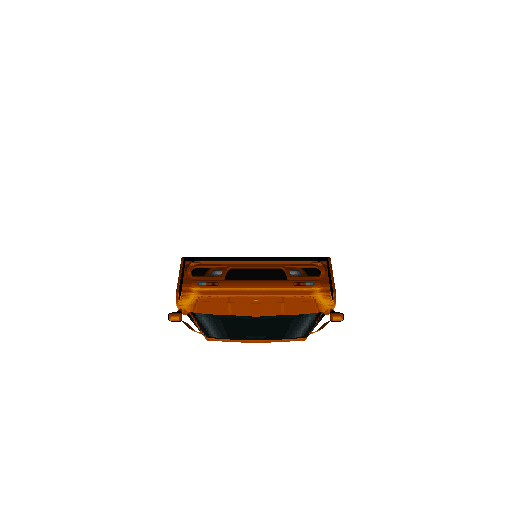
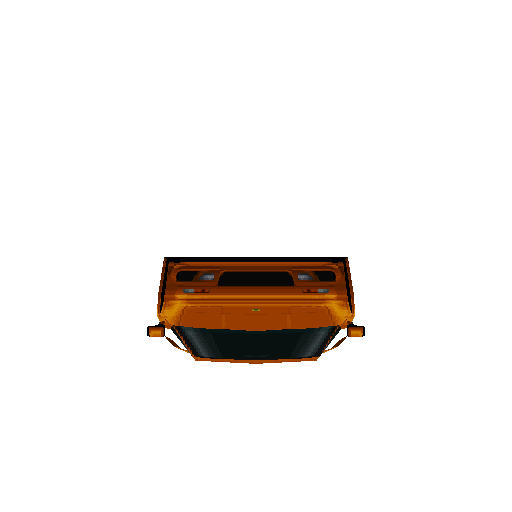
some cleanup

Changed region(s): [[0.2812, 0.5, 0.7188, 0.7188]]

diff --git a/resources/engineCode/engineImguiUtils.cc b/resources/engineCode/engineImguiUtils.cc
@@ -1352,11 +1352,11 @@ void engine::MenuOBJ () {
 		if ( ImGui::Button( "OBJ" ) ) {
 
 			// load the model
-			const mat3 baseTransform( 0.005f );
+			const mat3 baseTransform( 0.00618f );
 			mat3 transform = baseTransform;
 
 			// render one view, to start
-			cout << endl << "drawing model" << endl << endl;
+			// cout << endl << "drawing model" << endl << endl;
 			std::vector< fragment > fragments[ 3 ];
 
 			// +x view
@@ -1373,54 +1373,48 @@ void engine::MenuOBJ () {
 			transform = rotation( vec3( 1.0f, 0.0f, 0.0f ), pi / 2.0 ) * baseTransform;
 			s2.DrawModel( "testModel/iosen.OBJ", "testModel/iosen_6.png", transform, vec3( 0.0f ), fragments[ 2 ] );
 
-			cout << "model drawn" << endl;
+			// cout << "model drawn" << endl;
 			s0.Color.Save( "test.png" );
 
-			cout << "pulled " << fragments[ 0 ].size() + fragments[ 1 ].size() + fragments[ 2 ].size()
-				<< " fragments, ready to put in block" << newline;
+			// cout << "pulled " << fragments[ 0 ].size() + fragments[ 1 ].size() + fragments[ 2 ].size()
+				// << " fragments, ready to put in block" << newline;
 
 
 			// populate load block out of the three rendered views
-			std::vector<uint8_t> loaded;
+			std::vector< uint8_t > loaded;
 			loaded.resize( BLOCKDIM * BLOCKDIM * BLOCKDIM * 4 );
 
 			// fragments -> texture ( will need to figure out averaging, etc, eventually - for now, overwrite )
-			for ( auto& frag : fragments[ 0 ] ) {
-				int depthRemap = int( RemapRange( frag.depth, -1.0f, 1.0f, 0.0f, float( BLOCKDIM ) ) );
-				const int x = frag.pos.y;
-				const int y = BLOCKDIM - depthRemap;
-				const int z = frag.pos.x;
-				const int index = ( x + y * BLOCKDIM + z * BLOCKDIM * BLOCKDIM ) * 4;
-				loaded[ index + 0 ] = frag.color.r * 255;
-				loaded[ index + 1 ] = frag.color.g * 255;
-				loaded[ index + 2 ] = frag.color.b * 255;
-				loaded[ index + 3 ] = frag.color.a * 255;
+			for ( int i = 0; i < 3; i++ ) {
+				for ( auto& frag : fragments[ i ] ) {
+					int depthRemap = int( RemapRange( frag.depth, -1.0f, 1.0f, 0.0f, float( BLOCKDIM ) ) );
+					int x,y,z;
+					switch ( i ) {
+						case 0:
+						x = BLOCKDIM - depthRemap;
+						y = frag.pos.y;
+						z = frag.pos.x;
+						break;
+						case 1:
+						x = frag.pos.x;
+						y = frag.pos.y;
+						z = depthRemap;
+						break;
+						case 2:
+						x = BLOCKDIM - frag.pos.y;
+						y = BLOCKDIM - depthRemap;
+						z = BLOCKDIM - frag.pos.x;
+						break;
+						default:
+						break;
+					}
+					const int index = ( x + y * BLOCKDIM + z * BLOCKDIM * BLOCKDIM ) * 4;
+					loaded[ index + 0 ] = frag.color.r * 255;
+					loaded[ index + 1 ] = frag.color.g * 255;
+					loaded[ index + 2 ] = frag.color.b * 255;
+					loaded[ index + 3 ] = frag.color.a * 255;
+				}
 			}
-
-			for ( auto& frag : fragments[ 1 ] ) {
-				int depthRemap = int( RemapRange( frag.depth, -1.0f, 1.0f, 0.0f, float( BLOCKDIM ) ) );
-				const int x = frag.pos.y;
-				const int y = frag.pos.x;
-				const int z = depthRemap;
-				const int index = ( x + y * BLOCKDIM + z * BLOCKDIM * BLOCKDIM ) * 4;
-				loaded[ index + 0 ] = frag.color.r * 255;
-				loaded[ index + 1 ] = frag.color.g * 255;
-				loaded[ index + 2 ] = frag.color.b * 255;
-				loaded[ index + 3 ] = frag.color.a * 255;
-			}
-
-			for ( auto& frag : fragments[ 2 ] ) {
-				int depthRemap = int( RemapRange( frag.depth, -1.0f, 1.0f, 0.0f, float( BLOCKDIM ) ) );
-				const int x = BLOCKDIM - depthRemap;
-				const int y = BLOCKDIM - frag.pos.y;
-				const int z = BLOCKDIM - frag.pos.x;
-				const int index = ( x + y * BLOCKDIM + z * BLOCKDIM * BLOCKDIM ) * 4;
-				loaded[ index + 0 ] = frag.color.r * 255;
-				loaded[ index + 1 ] = frag.color.g * 255;
-				loaded[ index + 2 ] = frag.color.b * 255;
-				loaded[ index + 3 ] = frag.color.a * 255;
-			}
-
 
 			glBindTexture( GL_TEXTURE_3D, textures[ "LoadBuffer" ] );
 			glTexImage3D( GL_TEXTURE_3D, 0, GL_RGBA8, BLOCKDIM, BLOCKDIM, BLOCKDIM, 0, GL_RGBA, GL_UNSIGNED_BYTE, &loaded[ 0 ] );

diff --git a/resources/SoftRast/SoftRast.h b/resources/SoftRast/SoftRast.h
@@ -220,7 +220,6 @@ public:
 
 				// put the vec4 calculated color into the fragments vector
 				fragments.push_back( { eval, TexRef( vec2( texCoord.x, 1.0f - texCoord.y ) ), depth } );
-
 			}
 		}
 	}
